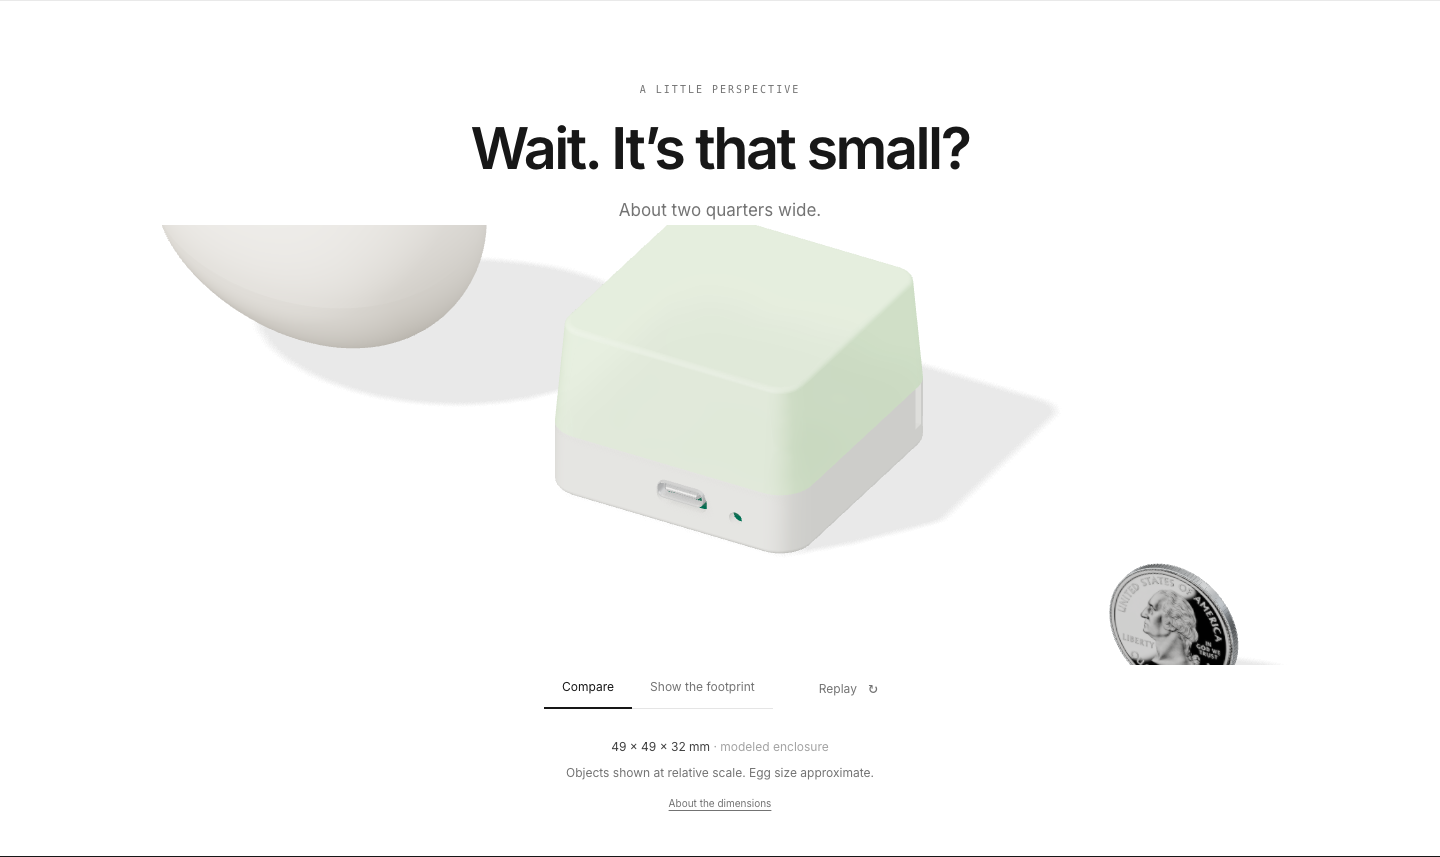
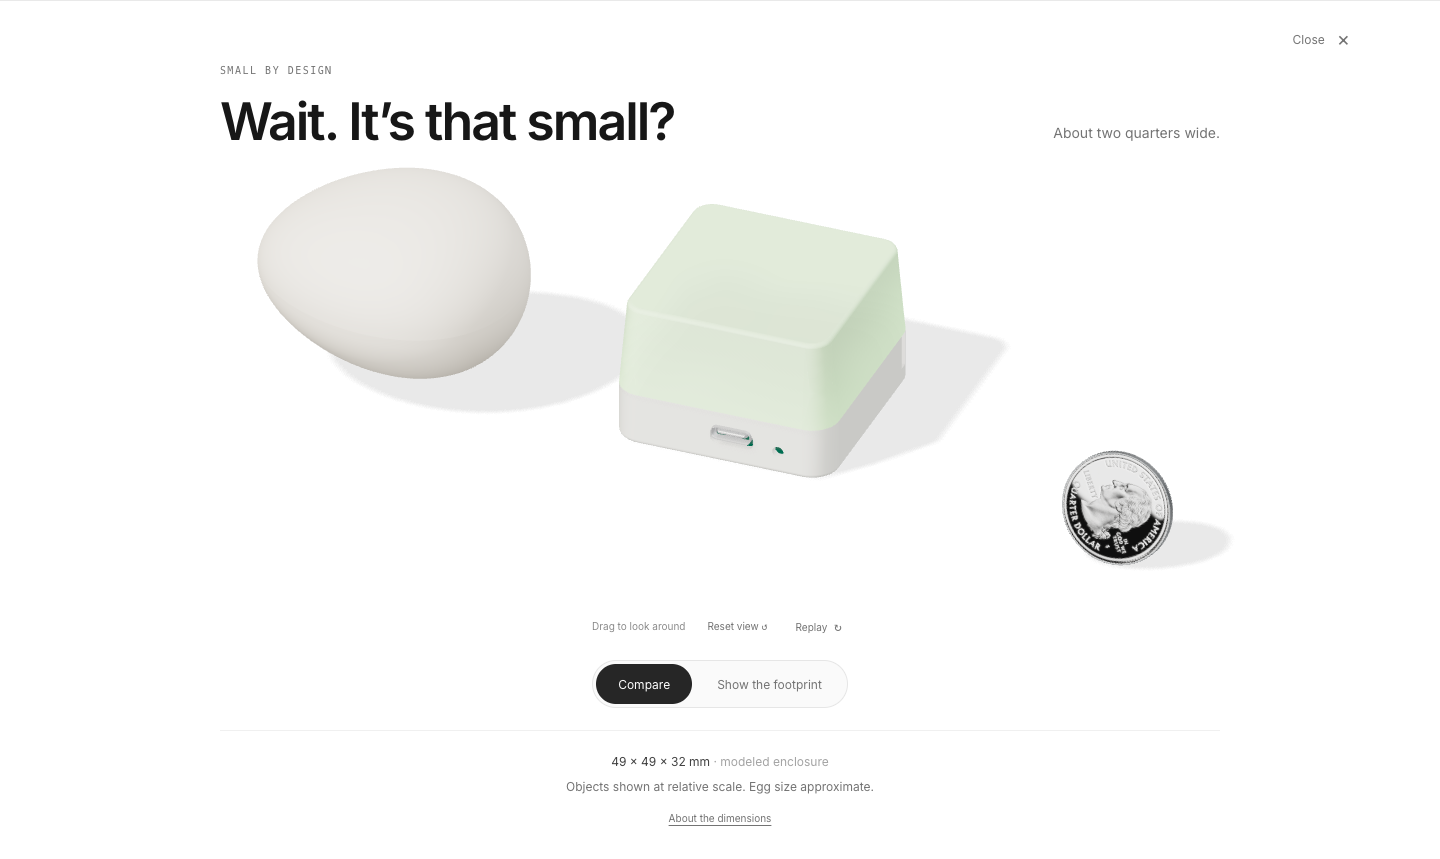
Refine size comparison presentation and add accessible drag orbit

diff --git a/src/scale/scene.js b/src/scale/scene.js
@@ -10,8 +10,9 @@ export async function createComparison(host,state){
  const scene=new T.Scene(),camera=new T.OrthographicCamera(-100,100,70,-70,.1,600);
  const pmrem=new T.PMREMGenerator(renderer),room=new RoomEnvironment(),env=pmrem.fromScene(room,.04);scene.environment=env.texture;scene.environmentIntensity=.65;room.dispose();pmrem.dispose();
  let dead=false,raf=0,started=false,visible=false,view=0,from=0,to=0,viewStart=0,revealStart=0,pausedAt=0;
+ const events=new AbortController();
  const materials=new Set(),textures=new Set(),geometries=new Set();
- function dispose(){dead=true;cancelAnimationFrame(raf);resizeObserver?.disconnect();observer?.disconnect();document.removeEventListener('visibilitychange',visibility);scene.traverse(o=>{if(o.geometry)geometries.add(o.geometry);for(const m of Array.isArray(o.material)?o.material:o.material?[o.material]:[]){materials.add(m);for(const v of Object.values(m))if(v?.isTexture)textures.add(v)}});geometries.forEach(g=>g.dispose());materials.forEach(m=>m.dispose());textures.forEach(t=>t.dispose());env.dispose();renderer.dispose();renderer.domElement.remove()}
+ function dispose(){dead=true;events.abort();cancelAnimationFrame(raf);resizeObserver?.disconnect();observer?.disconnect();document.removeEventListener('visibilitychange',visibility);scene.traverse(o=>{if(o.geometry)geometries.add(o.geometry);for(const m of Array.isArray(o.material)?o.material:o.material?[o.material]:[]){materials.add(m);for(const v of Object.values(m))if(v?.isTexture)textures.add(v)}});geometries.forEach(g=>g.dispose());materials.forEach(m=>m.dispose());textures.forEach(t=>t.dispose());env.dispose();renderer.dispose();renderer.domElement.remove()}
  let resizeObserver,observer,wake=()=>{};
  const visibility=()=>{if(document.hidden||!visible){if(!pausedAt)pausedAt=performance.now();cancelAnimationFrame(raf);raf=0}else{if(pausedAt){const elapsed=performance.now()-pausedAt;revealStart+=elapsed;viewStart+=elapsed;pausedAt=0}wake()}};
  try{
@@ -22,28 +23,38 @@ export async function createComparison(host,state){
  product.position.y=-bounds.min.y;
  host.dataset.bounds=[size.x,size.z,size.y].map(n=>n.toFixed(2)).join(' × ');
  const diffuser=product.getObjectByName('diffuser');diffuser.material.dispose();diffuser.material=new T.MeshPhysicalMaterial({color:new T.Color('#faf8eb').lerp(new T.Color('#91d980'),.55),roughness:.5,metalness:0,transmission:.08,thickness:1.3,ior:1.45,emissive:'#91d980',emissiveIntensity:.28});
+ diffuser.material.onBeforeCompile=shader=>{shader.vertexShader=shader.vertexShader.replace('#include <common>','#include <common>\nvarying vec3 vShellPosition;').replace('#include <begin_vertex>','#include <begin_vertex>\nvShellPosition = position;');shader.fragmentShader=shader.fragmentShader.replace('#include <common>','#include <common>\nvarying vec3 vShellPosition;').replace('#include <emissivemap_fragment>','#include <emissivemap_fragment>\nfloat diffusion = 1.0 - smoothstep(10.0, 33.0, vShellPosition.y);\ntotalEmissiveRadiance *= 0.35 + diffusion * 1.5;\ndiffuseColor.rgb *= 0.995 + 0.005 * sin(vShellPosition.y * 35.0);');};
  const egg=makeEgg(),coin2=coin.clone(true);scene.add(egg,coin,coin2);
- scene.add(new T.HemisphereLight('#fffef7','#b0b6ba',.65));const key=new T.DirectionalLight('#fffaf0',2);key.position.set(-70,130,80);key.castShadow=true;key.shadow.mapSize.set(C.quality.shadowSize,C.quality.shadowSize);Object.assign(key.shadow.camera,{left:-125,right:125,top:110,bottom:-110,near:1,far:350});key.shadow.normalBias=.06;key.shadow.bias=-.0001;key.shadow.radius=4;scene.add(key);const fill=new T.DirectionalLight('#e2ebf5',.65);fill.position.set(80,50,-60);scene.add(fill);
+ scene.add(new T.HemisphereLight('#fffef7','#b0b6ba',.4));const key=new T.DirectionalLight('#fffaf0',2);key.position.set(-70,130,80);key.castShadow=true;key.shadow.mapSize.set(C.quality.shadowSize,C.quality.shadowSize);Object.assign(key.shadow.camera,{left:-125,right:125,top:110,bottom:-110,near:1,far:350});key.shadow.normalBias=.06;key.shadow.bias=-.0001;key.shadow.radius=4;scene.add(key);const fill=new T.DirectionalLight('#e2ebf5',.65);fill.position.set(80,50,-60);scene.add(fill);
  const ground=new T.Mesh(new T.PlaneGeometry(1000,1000),new T.ShadowMaterial({opacity:.085}));ground.rotation.x=-Math.PI/2;ground.position.y=-.02;ground.receiveShadow=true;scene.add(ground);
  const linePoints=[[-24.5,.08,-32],[24.5,.08,-32],[-24.5,.08,-34],[-24.5,.08,-30],[24.5,.08,-34],[24.5,.08,-30],[32,.08,-24.5],[32,.08,24.5],[30,.08,-24.5],[34,.08,-24.5],[30,.08,24.5],[34,.08,24.5]];
  const lines=new T.LineSegments(new T.BufferGeometry().setFromPoints(linePoints.map(([x,y,z])=>new T.Vector3(x/49*pd.width,y,z/49*pd.depth))),new T.LineBasicMaterial({color:'#737373',transparent:true}));scene.add(lines);
- host.append(renderer.domElement);renderer.domElement.setAttribute('role','img');renderer.domElement.setAttribute('aria-label','Noware enclosure, chicken egg and US quarter shown together at a consistent physical scale.');
+ host.append(renderer.domElement);const canvas=renderer.domElement;canvas.tabIndex=0;canvas.setAttribute('aria-keyshortcuts','ArrowLeft ArrowRight ArrowUp ArrowDown');renderer.domElement.setAttribute('role','img');renderer.domElement.setAttribute('aria-label','Noware enclosure, chicken egg and US quarter shown together at a consistent physical scale. In Compare view, drag or use arrow keys to rotate the shared view.');
  function render(now){raf=0;if(dead||!visible||document.hidden)return;
  const rt=state.reduced||state.mobile?1:Math.min(1,(now-revealStart)/C.timing.reveal),r=ease(rt),v=state.reduced?1:ease((now-viewStart)/C.timing.view);view=T.MathUtils.lerp(from,to,v);
  const w=host.clientWidth,h=host.clientHeight,aspect=w/h,vertical=T.MathUtils.lerp(C.camera.closeSpan,Math.max((state.mobile?C.camera.mobileSpan:C.camera.span)/aspect,state.mobile?150:118),r);camera.left=-vertical*aspect/2;camera.right=vertical*aspect/2;camera.top=vertical/2;camera.bottom=-vertical/2;
- camera.position.fromArray(C.camera.compare).lerp(new T.Vector3(...C.camera.overhead),view);const target=new T.Vector3(...C.camera.target).multiplyScalar(r);target.multiplyScalar(1-view);target.z+=view*10;camera.position.z+=view*10;camera.lookAt(target);camera.updateProjectionMatrix();
+ const orbitTarget=new T.Vector3(...C.camera.target),orbit=new T.Spherical().setFromVector3(new T.Vector3(...C.camera.compare).sub(orbitTarget));orbit.theta+=state.rotation.yaw;orbit.phi+=state.rotation.pitch;
+ camera.position.setFromSpherical(orbit).add(orbitTarget).lerp(new T.Vector3(...C.camera.overhead),view);const target=new T.Vector3(...C.camera.target).multiplyScalar(r);target.multiplyScalar(1-view);target.z+=view*10;camera.position.z+=view*10;camera.lookAt(target);camera.updateProjectionMatrix();
  egg.rotation.set(0,.12*(1-view),0);egg.rotation.x=(1-r)*.3;egg.position.set(C.positions.egg[0]-(1-r)*20-view*3,0,C.positions.egg[2]);egg.updateMatrixWorld();egg.position.y=-new T.Box3().setFromObject(egg).min.y;
  const settle=ease((rt-.35)/.65),tilt=(1-settle)*Math.PI/2+Math.sin(settle*Math.PI*6)*.08*Math.sin(settle*Math.PI);coin.rotation.set(tilt,(1-settle)*Math.PI*2,0);coin.position.set(T.MathUtils.lerp(C.positions.coin[0]+(1-settle)*55,-qd.diameter/2,view),coinSupport(tilt,qd.diameter/2,qd.thickness),T.MathUtils.lerp(C.positions.coin[2],C.positions.footprintZ,view));
  coin2.visible=view>.001;coin2.position.set(T.MathUtils.lerp(110,qd.diameter/2,view),qd.thickness/2,C.positions.footprintZ);
  lines.material.opacity=ease((view-.65)/.35);lines.visible=view>.65;
  camera.updateMatrixWorld(true);scene.updateMatrixWorld(true);for(const label of host.parentElement.querySelectorAll('[data-scale-anchor]')){const anchors={width:[0,0,-39],depth:[40,0,0],coins:[0,0,64]};const p=new T.Vector3(...anchors[label.dataset.scaleAnchor]).project(camera);label.style.left=`${(p.x*.5+.5)*w}px`;label.style.top=`${(-p.y*.5+.5)*h}px`;label.style.opacity=lines.material.opacity;label.hidden=view<.65}
- renderer.render(scene,camera);host.dataset.ready='true';host.dataset.view=view.toFixed(3);host.dataset.reveal=rt.toFixed(3);host.dataset.drawCalls=renderer.info.render.calls;host.parentElement.classList.add('is-ready');
+ renderer.render(scene,camera);host.dataset.rotation=state.rotation.yaw.toFixed(3)+','+state.rotation.pitch.toFixed(3);canvas.dataset.draggable=String(to===0&&view<.001);host.dataset.ready='true';host.dataset.view=view.toFixed(3);host.dataset.reveal=rt.toFixed(3);host.dataset.drawCalls=renderer.info.render.calls;host.parentElement.classList.add('is-ready');
  if(rt<1||v<1)raf=requestAnimationFrame(render);
  }
  wake=()=>{if(!raf&&!dead&&visible&&!document.hidden)raf=requestAnimationFrame(render)};
+ let drag=null;
+ function rotate(yaw,pitch){state.rotation.yaw=T.MathUtils.clamp(yaw,-C.interaction.yawLimit,C.interaction.yawLimit);state.rotation.pitch=T.MathUtils.clamp(pitch,-C.interaction.pitchLimit,C.interaction.pitchLimit);revealStart=performance.now()-C.timing.reveal;wake()}
+ function endDrag(){if(drag&&canvas.hasPointerCapture(drag.id))canvas.releasePointerCapture(drag.id);drag=null;delete canvas.dataset.dragging}
+ canvas.addEventListener('pointerdown',e=>{if(e.button!==0||to!==0||view>.001)return;drag={id:e.pointerId,x:e.clientX,y:e.clientY,...state.rotation};},{signal:events.signal});
+ canvas.addEventListener('pointermove',e=>{if(!drag||e.pointerId!==drag.id)return;const dx=e.clientX-drag.x,dy=e.clientY-drag.y;if(e.pointerType==='touch'&&!canvas.hasPointerCapture(e.pointerId)){if(Math.abs(dy)>Math.abs(dx)&&Math.abs(dy)>5){endDrag();return}if(Math.abs(dx)<5)return}canvas.setPointerCapture(e.pointerId);canvas.dataset.dragging='true';rotate(drag.yaw-dx*C.interaction.dragSpeed,drag.pitch-(e.pointerType==='touch'?0:dy*C.interaction.dragSpeed));},{signal:events.signal});
+ for(const type of ['pointerup','pointercancel','lostpointercapture'])canvas.addEventListener(type,endDrag,{signal:events.signal});
+ canvas.addEventListener('keydown',e=>{if(to!==0||view>.001||!['ArrowLeft','ArrowRight','ArrowUp','ArrowDown'].includes(e.key))return;e.preventDefault();rotate(state.rotation.yaw+({ArrowLeft:-1,ArrowRight:1}[e.key]||0)*C.interaction.keyStep,state.rotation.pitch+({ArrowUp:-1,ArrowDown:1}[e.key]||0)*C.interaction.keyStep);},{signal:events.signal});
+ function reset(){endDrag();rotate(0,0)}
  function resize(){state.mobile=innerWidth<600;renderer.setSize(host.clientWidth,host.clientHeight);wake()}
  resizeObserver=new ResizeObserver(resize);resizeObserver.observe(host);
  observer=new IntersectionObserver(([entry])=>{visible=entry.isIntersecting;if(visible&&!started){started=true;pausedAt=0;revealStart=performance.now();viewStart=revealStart-C.timing.view}visibility()},{threshold:.15});observer.observe(host);document.addEventListener('visibilitychange',visibility);resize();
- return {setMode(mode){from=view;to=mode==='footprint'?1:0;viewStart=performance.now();revealStart=viewStart-C.timing.reveal;wake()},replay(){from=view;to=0;viewStart=performance.now();revealStart=viewStart;wake()},dispose};
+ return {reset,setMode(mode){endDrag();from=view;to=mode==='footprint'?1:0;viewStart=performance.now();revealStart=viewStart-C.timing.reveal;wake()},replay(){endDrag();state.rotation.yaw=state.rotation.pitch=0;from=view;to=0;viewStart=performance.now();revealStart=viewStart;wake()},dispose};
  }catch(error){dispose();throw error}
 }

diff --git a/src/scale/index.js b/src/scale/index.js
@@ -3,23 +3,25 @@ import {scaleConfig as C} from './config.js';
 export function mountScaleComparison(){
  const d=C.dimensions.product;
  const section=document.createElement('section');section.className='scale-story';section.id='size';section.hidden=true;section.setAttribute('aria-labelledby','scale-title');
- section.innerHTML=`<button type="button" class="scale-close" aria-label="Close size comparison">Close <span aria-hidden="true">×</span></button><div class="scale-heading"><span class="scale-eyebrow">A LITTLE PERSPECTIVE</span><h2 id="scale-title" tabindex="-1">Wait. It’s that small?</h2><p>About two quarters wide.</p></div>
+ section.innerHTML=`<button type="button" class="scale-close" aria-label="Close size comparison">Close <span aria-hidden="true">×</span></button><div class="scale-heading"><span class="scale-eyebrow">SMALL BY DESIGN</span><h2 id="scale-title" tabindex="-1">Wait. It’s that small?</h2><p>About two quarters wide.</p></div>
  <div class="scale-stage"><picture><source media="(max-width:600px)" srcset="/showcase/scale/compare-mobile.webp"><img class="scale-poster" src="/showcase/scale/compare.webp" alt="Noware beside a chicken egg and a U.S. quarter, shown at relative scale." width="1440" height="600"></picture><div class="scale-canvas"></div><div class="scale-measure" data-scale-anchor="width" hidden>${d.width} mm</div><div class="scale-measure" data-scale-anchor="depth" hidden>${d.depth} mm</div><div class="scale-measure scale-coin-label" data-scale-anchor="coins" hidden>${(C.dimensions.quarter.diameter*2).toFixed(2)} mm · two quarters</div></div>
- <div class="scale-toolbar"><div class="scale-modes" role="group" aria-label="Size comparison view"><button type="button" data-mode="compare" aria-pressed="true">Compare</button><button type="button" data-mode="footprint" aria-pressed="false">Show the footprint</button></div><button type="button" class="scale-replay" aria-label="Replay the size comparison reveal">Replay <span aria-hidden="true">↻</span></button></div>
+ <div class="scale-view-tools"><span class="scale-drag-hint" title="Drag, or focus the scene and use arrow keys">Drag to look around</span><button type="button" class="scale-reset">Reset view ↺</button><button type="button" class="scale-replay" aria-label="Replay the size comparison reveal">Replay <span aria-hidden="true">↻</span></button></div>
+ <div class="scale-toolbar"><div class="scale-modes" role="group" aria-label="Size comparison view"><button type="button" data-mode="compare" aria-pressed="true">Compare</button><button type="button" data-mode="footprint" aria-pressed="false">Show the footprint</button></div></div>
  <div class="scale-caption"><p>${d.width} × ${d.depth} × ${d.height} mm <span>· modeled enclosure</span></p><p>Objects shown at relative scale. Egg size approximate.</p><details><summary>About the dimensions</summary><p>The engineering enclosure shown measures 49 × 49 × 32 mm. The retail product lists 49 × 49 × 36 mm. This comparison preserves the engineering model’s proportions. The egg is an illustrative 58 × 44 mm; each U.S. quarter is 24.26 mm across and 1.75 mm thick.</p><p>Quarter-dollar coin image from the United States Mint.</p></details><p class="scale-status" role="status"></p></div>`;
  document.querySelector('#hardware').after(section);
- const media=matchMedia('(prefers-reduced-motion: reduce)'),state={mode:'compare',reduced:media.matches,mobile:innerWidth<600};let scene,disposed=false;
+ const media=matchMedia('(prefers-reduced-motion: reduce)'),state={mode:'compare',reduced:media.matches,mobile:innerWidth<600,rotation:{yaw:0,pitch:0}};let scene,disposed=false;
  const trigger=document.querySelector('.hardware-size-link');
  function setOpen(open){section.hidden=!open;trigger.setAttribute('aria-expanded',String(open));const target=open?section.querySelector('h2'):trigger;target.focus({preventScroll:true});(open?section:trigger).scrollIntoView({behavior:state.reduced?'instant':'smooth',block:open?'start':'center'});}
  const toggle=()=>setOpen(section.hidden);trigger.addEventListener('click',toggle);
  section.querySelector('.scale-close').addEventListener('click',()=>setOpen(false));
  section.addEventListener('keydown',e=>{if(e.key==='Escape'){e.preventDefault();setOpen(false)}});
  const buttons=[...section.querySelectorAll('[data-mode]')],poster=section.querySelector('.scale-poster'),source=section.querySelector('source');
- function update(mode){state.mode=mode;buttons.forEach(b=>b.setAttribute('aria-pressed',String(b.dataset.mode===mode)));poster.src=`/showcase/scale/${mode}.webp`;source.srcset=`/showcase/scale/${mode}-mobile.webp`;poster.alt=mode==='footprint'?'Overhead comparison: the 49 mm enclosure above two quarters spanning 48.52 mm, with an egg alongside.':'Noware beside a chicken egg and a U.S. quarter, shown at relative scale.';scene?.setMode(mode)}
+ function update(mode){state.mode=mode;section.querySelector('.scale-drag-hint').textContent=mode==='footprint'?'Overhead view · fixed to scale':'Drag to look around';section.querySelector('.scale-reset').disabled=mode==='footprint';buttons.forEach(b=>b.setAttribute('aria-pressed',String(b.dataset.mode===mode)));poster.src=`/showcase/scale/${mode}.webp`;source.srcset=`/showcase/scale/${mode}-mobile.webp`;poster.alt=mode==='footprint'?'Overhead comparison: the 49 mm enclosure above two quarters spanning 48.52 mm, with an egg alongside.':'Noware beside a chicken egg and a U.S. quarter, shown at relative scale.';scene?.setMode(mode)}
+ section.querySelector('.scale-reset').addEventListener('click',()=>scene?.reset());
  buttons.forEach(b=>b.addEventListener('click',()=>update(b.dataset.mode)));
  section.querySelector('.scale-replay').addEventListener('click',()=>{update('compare');scene?.replay()});
  const preference=()=>{state.reduced=media.matches;scene?.setMode(state.mode)};media.addEventListener('change',preference);
- const observer=new IntersectionObserver(async([e])=>{if(!e.isIntersecting)return;observer.disconnect();try{const {createComparison}=await import('./scene.js');scene=await createComparison(section.querySelector('.scale-canvas'),state);if(disposed){scene.dispose();return}if(state.mode!=='compare')scene.setMode(state.mode)}catch(error){console.warn('Size comparison uses its image fallback:',error.message);section.querySelector('.scale-status').textContent='Still views shown. The same relative scale is preserved.';section.querySelector('.scale-replay').hidden=true;}},{rootMargin:'400px'});observer.observe(section);
+ const observer=new IntersectionObserver(async([e])=>{if(!e.isIntersecting)return;observer.disconnect();try{const {createComparison}=await import('./scene.js');scene=await createComparison(section.querySelector('.scale-canvas'),state);if(disposed){scene.dispose();return}if(state.mode!=='compare')scene.setMode(state.mode)}catch(error){console.warn('Size comparison uses its image fallback:',error.message);section.querySelector('.scale-status').textContent='Still views shown. The same relative scale is preserved.';section.querySelector('.scale-replay').hidden=true;section.querySelector('.scale-view-tools').hidden=true;}},{rootMargin:'400px'});observer.observe(section);
  const dispose=()=>{disposed=true;trigger.removeEventListener('click',toggle);observer.disconnect();scene?.dispose();media.removeEventListener('change',preference)};
  if(import.meta.hot)import.meta.hot.dispose(dispose);
  return dispose;

diff --git a/src/scale/scale.css b/src/scale/scale.css
@@ -14,3 +14,28 @@
 .scale-story .scale-close{position:absolute;top:16px;right:5%;display:flex;gap:12px;align-items:center}
 .scale-close span{font-size:20px}
 .scale-heading h2:focus{outline:none}
+
+.scale-view-tools{display:flex;justify-content:center;align-items:center;gap:18px;margin:-6px auto 8px;color:#8a8a8a;font-size:10px}
+.scale-view-tools[hidden]{display:none}
+.scale-story .scale-reset{font-size:10px;padding:8px;min-height:44px}
+.scale-reset:disabled{opacity:.35;cursor:default}
+.scale-canvas canvas[data-draggable=true]{cursor:grab}
+.scale-canvas canvas[data-dragging=true]{cursor:grabbing}
+.scale-canvas canvas:focus-visible{outline:1px solid #a3a3a3;outline-offset:-2px}
+
+/* A compact editorial header and one clear view switch. */
+.scale-story{padding-top:64px;padding-bottom:32px}
+.scale-heading{max-width:1000px;margin:auto;text-align:left;display:grid;grid-template-columns:1fr auto;align-items:end;column-gap:32px}
+.scale-eyebrow{grid-column:1/-1;font-size:10px;letter-spacing:1.5px}
+.scale-heading h2{font-size:clamp(34px,3.6vw,52px);margin:17px 0 0;letter-spacing:-2px}
+.scale-heading>p{font-size:14px;margin:0 0 5px;color:#737373}
+.scale-stage{height:440px;margin-top:14px}
+.scale-toolbar{margin:12px auto 22px}
+.scale-modes{border:1px solid #e6e6e6;border-radius:30px;padding:3px;gap:3px;background:#fafafa}
+.scale-modes button{border:0;border-radius:24px;min-height:40px;margin:0;padding:10px 22px;font-size:12px}
+.scale-modes button[aria-pressed=true]{background:#262626;color:#fff;border:0}
+.scale-view-tools{margin:0 auto;color:#8a8a8a;gap:16px}
+.scale-story .scale-view-tools button{font-size:10px;padding:6px;min-height:44px}
+.scale-view-tools .scale-replay span{font-size:13px;margin-left:4px}
+.scale-caption{border-top:1px solid #f0f0f0;padding-top:16px;max-width:1000px;margin:auto}
+@media(max-width:600px){.scale-story{padding-top:64px}.scale-heading{display:block;text-align:center}.scale-heading h2{font-size:34px;letter-spacing:-1.6px;margin:16px 0 12px}.scale-heading>p{font-size:13px}.scale-stage{height:320px;margin-top:0}.scale-view-tools{gap:12px;font-size:9px}.scale-story .scale-view-tools button{font-size:10px}.scale-toolbar{margin:6px auto 20px}.scale-modes button{padding:10px 20px}}

diff --git a/src/scale/config.js b/src/scale/config.js
@@ -2,8 +2,9 @@
 export const scaleConfig = {
  dimensions: {product: {width:49,depth:49,height:32,retailHeight:36},quarter:{diameter:24.26,thickness:1.75,reeds:119},egg:{length:58,diameter:44}},
  timing:{reveal:2600,view:1000},
- camera:{compare:[95,125,175],overhead:[0,220,.001],target:[-13,12,6],span:174,mobileSpan:192,closeSpan:62},
- positions:{egg:[-64,0,4],coin:[46,0,29],footprintZ:44},
+ camera:{compare:[65,130,190],overhead:[0,220,.001],target:[-13,13,12],span:174,mobileSpan:192,closeSpan:62},
+ positions:{egg:[-67,0,17],coin:[46,0,29],footprintZ:44},
+ interaction:{yawLimit:.6,pitchLimit:.18,dragSpeed:.005,keyStep:.08},
  quality:{pixelRatio:1.6,shadowSize:1024},
 };
 export const ease=t=>{t=Math.max(0,Math.min(1,t));return t*t*(3-2*t)};

diff --git a/scripts/scale/HANDOFF.md b/scripts/scale/HANDOFF.md
@@ -18,3 +18,6 @@ Run `npm install`, `npm run dev -- --port 5177`, then open **http://localhost:51
 
 ## Intentional limits
 CAD enclosure is 49×49×32 mm, while retail lists 36 mm high; both are disclosed. Egg 58×44 mm is approximate. Coin relief is a face-image bump with procedural rim/reeds; reverse is not detailed. Motion is keyframed, not a physics simulation. Comparison renders only during reveal/view changes/resize, and pauses offscreen or in hidden tabs; no continuous ambient animation. Mobile and reduced-motion visitors get the completed composition immediately. Hardware/browser performance varies; no 60 fps claim. Coin source license and credit are recorded in the asset README and page disclosure.
+
+## Comparison interaction refinement
+Compare now supports bounded camera orbit by mouse drag, horizontal touch swipe, or arrow keys with the canvas focused. All objects remain fixed at the same physical scale. Vertical touch gestures retain page scrolling. Footprint mode locks the camera overhead and preserves the previous Compare angle; Reset view restores the default, and Replay resets the angle before the reveal. Limits and sensitivity are in `scaleConfig.interaction`. `node scripts/scale/drag.mjs` checks mouse/touch input, normal mobile scrolling, keyboard, reset, footprint lock, and restored orbit. The refined header, grouped secondary actions and primary view selector remain within the optional disclosure. Posters have been regenerated for the adjusted composition and diffuser material.
